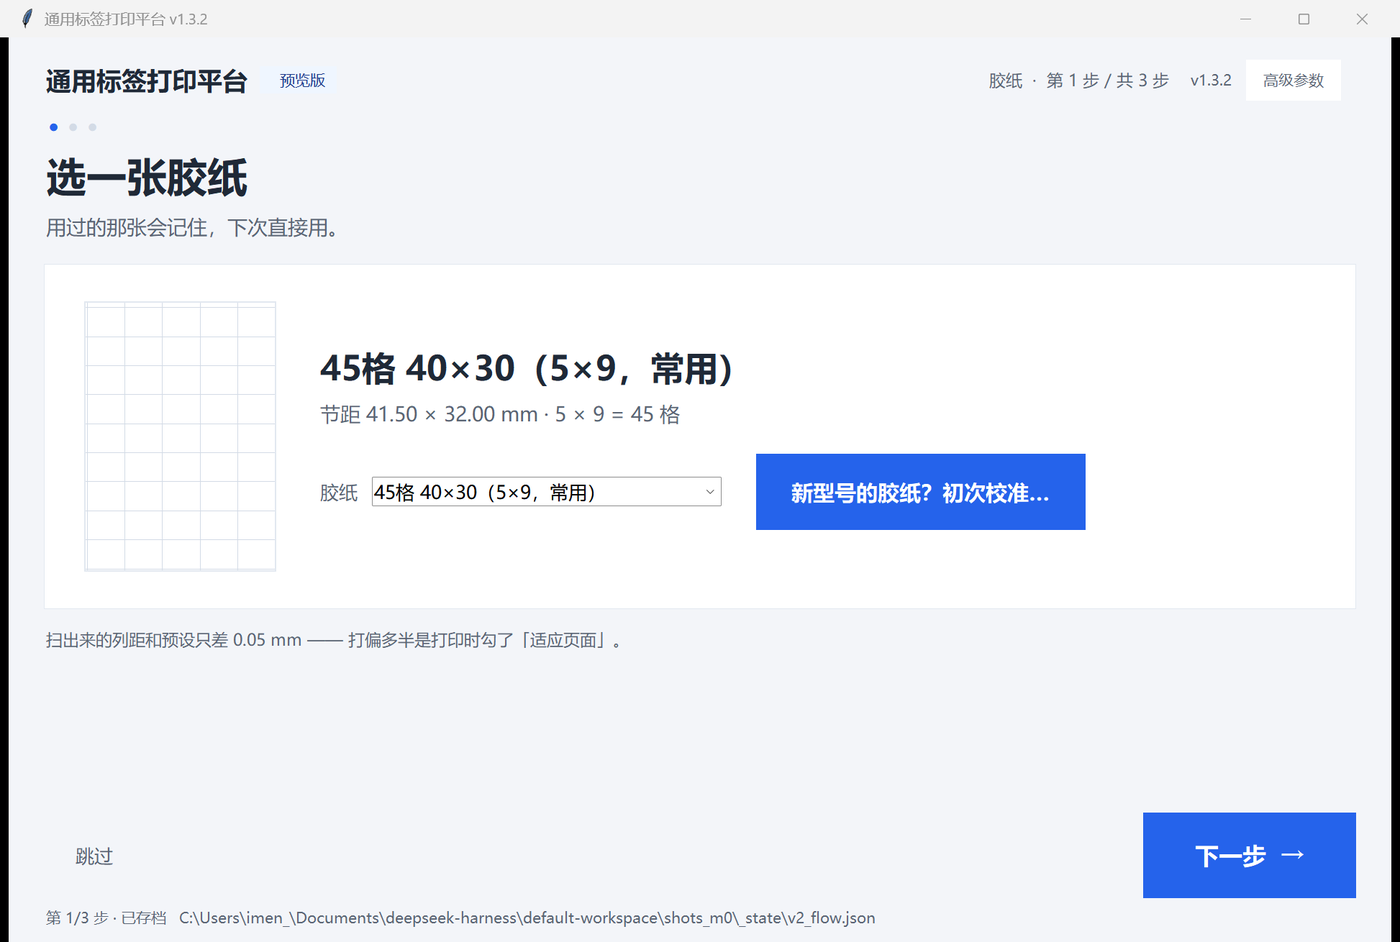
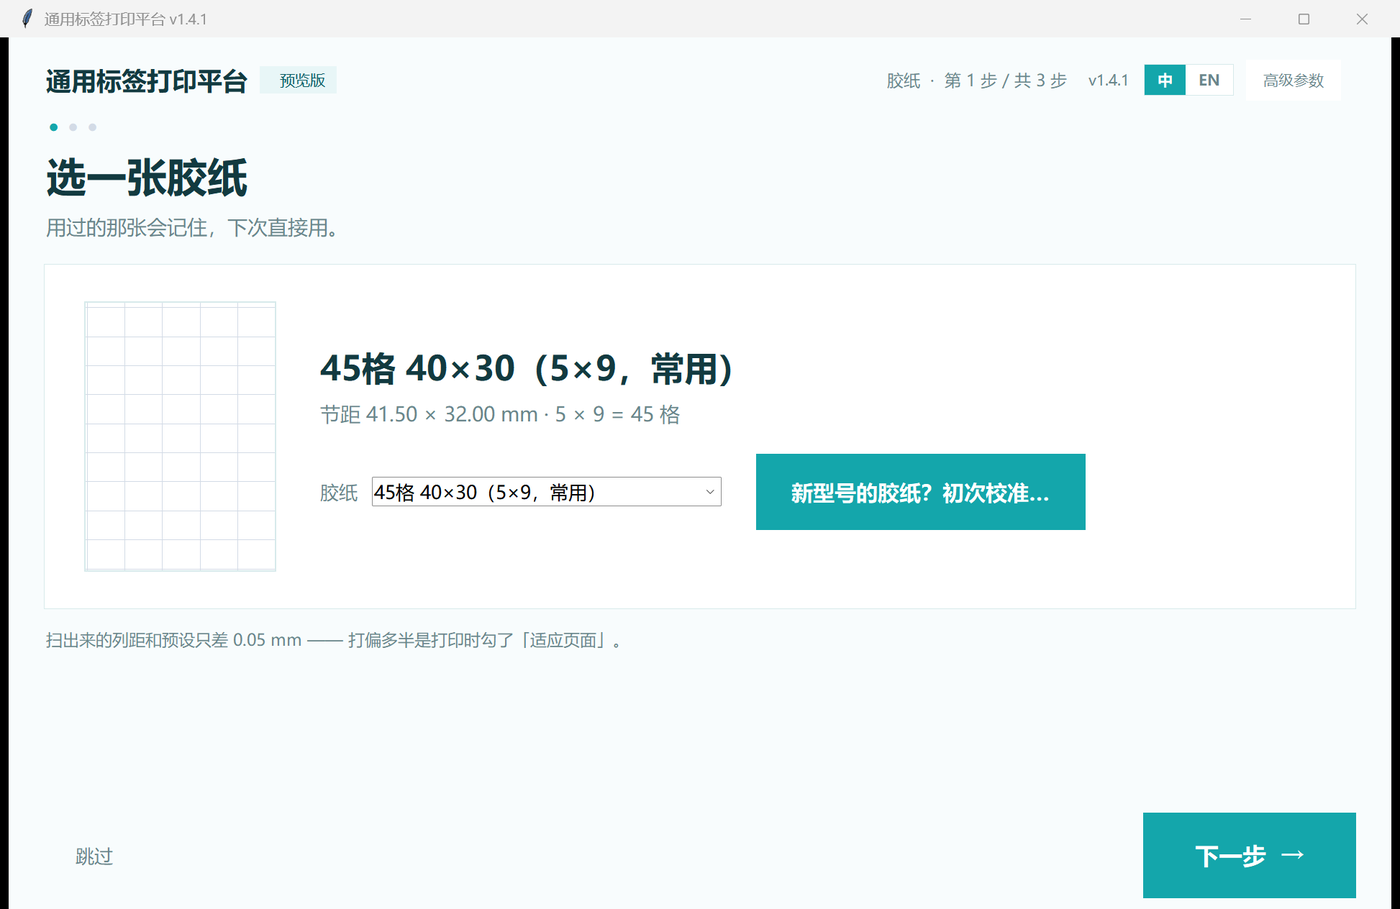
- 胶纸模板名改为双语存储：中文显示「5×9 实测」，英文显示「5×9 measured」（老模板保持原名）

diff --git a/src/ulpp/templates.py b/src/ulpp/templates.py
@@ -55,6 +55,8 @@ class Template:
     confidence: float = 1.0       # 扫描得到的置信度；手填 = 1.0
     source: str = "manual"        # preset:45 / scan:文件名 / manual
     created: str = field(default_factory=lambda: time.strftime("%Y-%m-%d %H:%M"))
+    # 建模板时记下中英双语名字；老数据没有这个字段，回落到 name
+    name_i18n: Dict[str, str] = field(default_factory=dict)
 
     @property
     def count(self) -> int:
@@ -71,9 +73,13 @@ class Template:
             inset=self.inset_mm,
         )
 
-    def label(self) -> str:
-        return "%s（%d×%d · %.1f×%.1f）" % (
-            self.name, self.cols, self.rows, self.pitch_x_mm, self.pitch_y_mm)
+    def display_name(self, lang: str = "zh_CN") -> str:
+        return self.name_i18n.get(lang) or self.name
+
+    def label(self, lang: str = "zh_CN") -> str:
+        pattern = "%s (%d×%d · %.1f×%.1f)" if lang == "en_US" else "%s（%d×%d · %.1f×%.1f）"
+        return pattern % (self.display_name(lang), self.cols, self.rows,
+                          self.pitch_x_mm, self.pitch_y_mm)
 
     def to_dict(self) -> Dict[str, object]:
         return asdict(self)
@@ -85,6 +91,7 @@ class Template:
         try:
             return cls(
                 id=str(data["id"]), name=str(data.get("name") or data["id"]),
+                name_i18n=dict(data.get("name_i18n") or {}),
                 cols=int(data["cols"]), rows=int(data["rows"]),
                 cell_w_mm=float(data["cell_w_mm"]), cell_h_mm=float(data["cell_h_mm"]),
                 pitch_x_mm=float(data["pitch_x_mm"]), pitch_y_mm=float(data["pitch_y_mm"]),

diff --git a/src/ulpp/ui/advanced.py b/src/ulpp/ui/advanced.py
@@ -129,7 +129,11 @@ class AdvancedDialog(tk.Toplevel):
         if hasattr(base, "to_dict"):            # 已经是我的纸：沿用名字，不再叠后缀
             name = base.name
         else:                                    # 预设 → 包成模板，名字标一下改
-            name = screens._name(base) + self.app.T("tpl.suffix_edited")
+            from .texts import TEXTS as _T
+            names = {code: (base.display_name(code) if base.name_i18n else base.name)
+                     + _T[code]["tpl.suffix_edited"] for code in ("zh_CN", "en_US")}
+            name = names[self.app.lang]
+            name_i18n = names
             base = Template.from_grid(base.to_grid(), name=name,
                                       source="preset:" + getattr(base, "key", "x"))
         try:

diff --git a/src/ulpp/ui/calibrate.py b/src/ulpp/ui/calibrate.py
@@ -746,8 +746,12 @@ class CalibrateWizard(tk.Toplevel):
         from ..templates import Template
 
         grid = self._grid()
+        from .texts import TEXTS as _T
+
+        names = {code: _T[code]["calib.tpl_name"].format(cols=m.cols, rows=m.rows)
+                 for code in ("zh_CN", "en_US")}
         tpl = Template(
-            id=Template.new_id("calib"), name=app.T("calib.tpl_name", cols=m.cols, rows=m.rows),
+            id=Template.new_id("calib"), name=names[app.lang], name_i18n=names,
             cols=m.cols, rows=m.rows,
             cell_w_mm=m.cell_w_mm, cell_h_mm=m.cell_h_mm,
             pitch_x_mm=m.pitch_x_mm, pitch_y_mm=m.pitch_y_mm,

diff --git a/src/ulpp/ui/screens.py b/src/ulpp/ui/screens.py
@@ -152,7 +152,7 @@ def build_sheet(app, body) -> None:
     tk.Label(row, text=app.T("sheet.label"), font=app.F(11), fg=app.P["muted"],
              bg=app.P["card"]).pack(side="left")
 
-    choices = [app.T("sheet.tpl_marked", name=t.label()) for t in app.templates.items]
+    choices = [app.T("sheet.tpl_marked", name=t.label(app.lang)) for t in app.templates.items]
     choices += [p.title for p in PRESETS]
     disp = app.keep(tk.StringVar(value=_display(app, item)))
     combo = _combo(app, row, choices, disp)

diff --git a/AGENTS.md b/AGENTS.md
@@ -83,6 +83,11 @@ python -m PyInstaller --noconfirm packaging/ulpp_onedir.spec
 5. **先提交、再打 tag**：tag 一旦推送就会发 PyPI，而 PyPI 不可覆盖；改完必须重新发版本号。
 6. **Release 附件**：轻量 `ulpp.exe`（无 OpenCV）+ 全功能 `ulpp-<tag>-full-windows-x64.zip`（含 OpenCV），
    发版说明里写清“下载哪个”（中英双语）。
+7. **README 截图与渲染**：界面动过就重新截图（`docs/v2-*.png` 用绝对 raw 链接引用）；
+   发版后要真的打开看一眼——
+   - GitHub 首页：图片、徽章、目录锚点是否正常；
+   - PyPI 项目页：描述里的图片是否显示（**PyPI 描述只在发新版时更新**，改 README 不会自动生效）；
+   - Release 页：附件名、下载说明是否与正文一致。
 
 ## 交付方式（每轮工作结束都要做）
 
